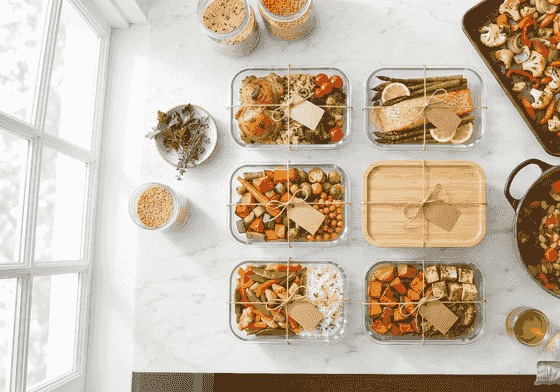
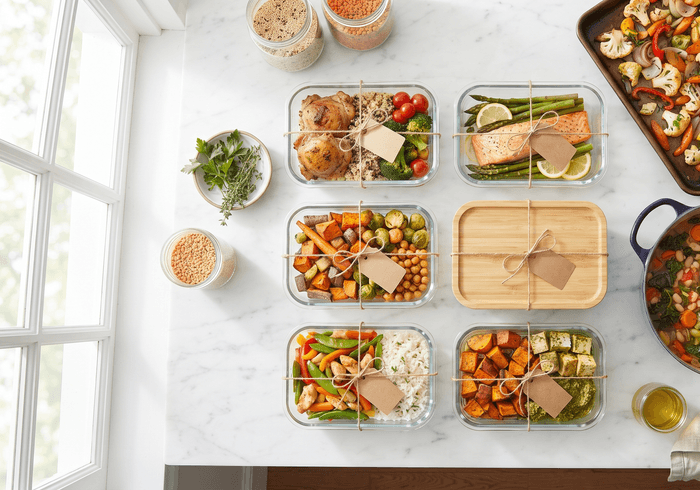
Fix collapse container-shrink bug; sitemap/stat/label/photo fixes from spot-check
Root cause of "collapse hides content but leaves a full-height blank
box" (confirmed on Today's Meal Plan, 6 real entries, not a data
gap): the grid-template-rows: 0fr/1fr collapse wrapper also carried
an unconditional flex-1, which stretches the wrapper to fill its
flex-col parent's available space regardless of the grid row's own
0fr/1fr track size -- flex-grow and grid-row-collapse don't coordinate
automatically. Two compounding causes on top of that: a fixed
min-h-[140px] on the card shell fought the same way, and the parent
grids (dashboard's top grid-cols-12 row, DashboardWidgets' 2-up
grids) default to align-items:stretch, so a collapsed card was pulled
back up to match an still-expanded sibling in the same row/grid.
Fixed all three: flex-1 and min-h are now conditional on !collapsed
in CollapsibleCard.tsx, TodaysMealPlanCard, and PrepAheadWidgetCard;
items-start added to every grid that pairs cards side by side. Real
tradeoff, called out in a comment: Today and Candle Lighting no
longer auto-match each other's height via grid stretch when both are
expanded (they used to, intentionally, per Candle Lighting's own
prior comment) -- each now sizes to its own content instead.

Sitemap: moved "Reset for Next" out of Tools -- Kitchen Ops into the
Staff section (a post-use checklist is a staff tool, not general
kitchen prep). Verified separately that the sitemap resize itself
(commits d985da6/3804689) genuinely is deployed -- confirmed via a
[…]

diff --git a/app/properties/[id]/dashboard/page.tsx b/app/properties/[id]/dashboard/page.tsx
@@ -618,7 +618,19 @@ export default async function Dashboard({ params }: { params: Promise<{ id: stri
             lighter, shadowless border only, so lists don't read as cards
             nested inside cards. */}
 
-        <div className="grid grid-cols-12 gap-[14px] mb-[14px]">
+        {/* items-start: without it, CSS Grid's default align-items:stretch
+            keeps a collapsed card (Today, Candle Lighting, Pantry, Meal
+            Plan all live in this one grid, sharing rows in pairs) stretched
+            to match its still-expanded row-sibling's height -- the same
+            "container doesn't shrink" bug CollapsibleCard's own flex-1 fix
+            addresses internally, just at the grid-row level instead. Trade-
+            off: Today and Candle Lighting no longer auto-match each other's
+            height when both are expanded (they used to, via this same
+            stretch behavior, per Candle Lighting's own code comment) --
+            each now sizes to its own content instead. Both cards were just
+            compacted to similar heights already, so this should read as a
+            minor difference at most, not a visible mismatch. */}
+        <div className="grid grid-cols-12 gap-[14px] mb-[14px] items-start">
           {/* TODAY -- Type A (denim header bar + free content below), per
               CONCEPT-B-DESIGN-RULES.md section 2. Content/functionality
               unchanged (Hebrew date, English date, parsha, Tehillim, omer,
@@ -926,13 +938,22 @@ export default async function Dashboard({ params }: { params: Promise<{ id: stri
           </CollapsibleCard>
         </div>
 
-        {/* Quick-glance overview -- 2 real counts (Meals Planned removed:
-            the same distinctMealCount already shows on the THIS WEEK card). */}
-        <div className="grid grid-cols-2 gap-3 mb-4">
+        {/* Quick-glance overview -- 3 real counts, restored (was briefly 2
+            with Meals Planned removed on the theory distinctMealCount was
+            already duplicated by the THIS WEEK card -- put back per
+            explicit request, in Total Inventory / Meals Planned / Active
+            Recipes order, not the original Total Inventory / Active
+            Recipes / Meals Planned order). */}
+        <div className="grid grid-cols-3 gap-3 mb-4">
           <div className="rounded-xl3 border border-cardBorder shadow-card bg-card p-4 text-center">
             <Package size={18} strokeWidth={1.5} className="text-brass mx-auto mb-1" aria-hidden="true" />
             <div className="text-2xl font-display text-denim">{inventoryCount.toLocaleString('en-US')}</div>
             <div className="text-xs text-dusk">{t('stats.totalInventory')}</div>
+          </div>
+          <div className="rounded-xl3 border border-cardBorder shadow-card bg-card p-4 text-center">
+            <Calendar size={18} strokeWidth={1.5} className="text-brass mx-auto mb-1" aria-hidden="true" />
+            <div className="text-2xl font-display text-denim">{distinctMealCount}</div>
+            <div className="text-xs text-dusk">{t('stats.mealsPlanned')}</div>
           </div>
           <div className="rounded-xl3 border border-cardBorder shadow-card bg-card p-4 text-center">
             <BookOpen size={18} strokeWidth={1.5} className="text-brass mx-auto mb-1" aria-hidden="true" />

diff --git a/components/DashboardWidgets.tsx b/components/DashboardWidgets.tsx
@@ -167,7 +167,7 @@ export default function DashboardWidgets({
         {visibleKeys.length === 0 ? (
           !editing && <p className="text-sm text-dusk">{t('allHidden')}</p>
         ) : (
-          <div className="grid grid-cols-1 sm:grid-cols-2 gap-3">
+          <div className="grid grid-cols-1 sm:grid-cols-2 gap-3 items-start">
             {visibleKeys.map((key) => {
               if (key === 'todays_meal_plan') return <TodaysMealPlanCard key={key} title={WIDGET_LABELS.todays_meal_plan} propertyId={propertyId} meals={todaysMeals} isShabbosOrYomTov={isShabbosOrYomTovDinner} />;
               return (
@@ -187,7 +187,7 @@ export default function DashboardWidgets({
         {/* Fixed row -- always shown, not part of the show/hide/reorder
             system above (Low Stock Alerts and the shopping-list count are
             operational, not optional). */}
-        <div className="grid grid-cols-1 sm:grid-cols-2 gap-3 mt-3">
+        <div className="grid grid-cols-1 sm:grid-cols-2 gap-3 mt-3 items-start">
           <LowStockAlertsCard title={t('labelLowStockAlerts')} propertyId={propertyId} items={lowStockItems} />
           <ShoppingListSummaryCard propertyId={propertyId} count={shoppingListCount} />
         </div>
@@ -269,19 +269,19 @@ function TodaysMealPlanCard({
   }
 
   return (
-    <div className="relative rounded-xl2 border border-brass/30 bg-mist shadow-card hover:shadow-cardHover transition-shadow overflow-hidden flex flex-col min-h-[140px]">
+    <div className={`relative rounded-xl2 border border-brass/30 bg-mist shadow-card hover:shadow-cardHover transition-shadow overflow-hidden flex flex-col ${collapsed ? '' : 'min-h-[100px]'}`}>
       <Pin size="sm" collapsed={collapsed} onToggle={toggle} />
-      <h3 className="text-[9px] tracking-[0.2em] uppercase font-semibold text-brass pt-[14px] px-[18px] pb-2.5">{title}</h3>
+      <h3 className="text-[9px] tracking-[0.2em] uppercase font-semibold text-brass pt-[10px] px-[16px] pb-2">{title}</h3>
       <div
-        className="flex-1 grid transition-[grid-template-rows] duration-200 ease-out"
+        className={`grid transition-[grid-template-rows] duration-200 ease-out ${collapsed ? '' : 'flex-1'}`}
         style={{ gridTemplateRows: collapsed ? '0fr' : '1fr' }}
       >
-        <div className="overflow-hidden flex flex-1 min-h-0">
-          <div className="flex-1 px-[18px] pb-[14px]">
+        <div className="overflow-hidden flex min-h-0">
+          <div className="flex-1 px-[16px] pb-[10px]">
             {meals.length === 0 ? (
               <p className="text-sm text-dusk">{t('nothingPlannedToday')}</p>
             ) : (
-              <div className="space-y-2">
+              <div className="space-y-1.5">
                 {Object.entries(bySlot).map(([slot, rawEntries]) => {
                   const entries = orderedEntries(slot, rawEntries);
                   if (entries.length === 0) return null;
@@ -310,7 +310,7 @@ function TodaysMealPlanCard({
                 })}
               </div>
             )}
-            <Link href={`/properties/${propertyId}/meal-plan`} className="inline-block mt-2.5 text-[11px] font-bold text-brass underline underline-offset-2">
+            <Link href={`/properties/${propertyId}/meal-plan`} className="inline-block mt-2 text-[11px] font-bold text-brass underline underline-offset-2">
               {t('viewFullPlan')}
             </Link>
           </div>
@@ -415,9 +415,9 @@ function PrepAheadWidgetCard({
   }
 
   return (
-    <div className="relative rounded-xl2 border border-brass/30 bg-mist shadow-card hover:shadow-cardHover transition-shadow overflow-hidden flex flex-col min-h-[140px]">
+    <div className={`relative rounded-xl2 border border-brass/30 bg-mist shadow-card hover:shadow-cardHover transition-shadow overflow-hidden flex flex-col ${collapsed ? '' : 'min-h-[100px]'}`}>
       <Pin size="sm" collapsed={collapsed} onToggle={toggle} />
-      <div className="flex items-center justify-between gap-2 pt-[14px] px-[18px] pb-2.5">
+      <div className="flex items-center justify-between gap-2 pt-[10px] px-[16px] pb-2">
         <span className="flex items-center gap-2">
           <span className="text-[9px] tracking-[0.2em] uppercase font-semibold text-brass">{title}</span>
           {isEnabled && <span className="text-xs text-dusk font-bold">({reminders.length})</span>}
@@ -433,11 +433,11 @@ function PrepAheadWidgetCard({
         )}
       </div>
       <div
-        className="flex-1 grid transition-[grid-template-rows] duration-200 ease-out"
+        className={`grid transition-[grid-template-rows] duration-200 ease-out ${collapsed ? '' : 'flex-1'}`}
         style={{ gridTemplateRows: collapsed ? '0fr' : '1fr' }}
       >
-        <div className="overflow-hidden flex flex-1 min-h-0">
-          <div className="flex-1 px-[18px] pb-[14px]">
+        <div className="overflow-hidden flex min-h-0">
+          <div className="flex-1 px-[16px] pb-[10px]">
             {!isEnabled ? (
               <p className="text-sm text-dusk">{t('off')}</p>
             ) : reminders.length === 0 ? (

diff --git a/components/CollapsibleCard.tsx b/components/CollapsibleCard.tsx
@@ -33,15 +33,24 @@ export default function CollapsibleCard({
 }) {
   const { collapsed, toggle } = useCardCollapse(cardId)
 
+  // flex-1 on the animating wrapper is what makes it fill the remaining
+  // height of this card's flex-col shell when expanded (matching what a
+  // plain content div used to do before collapse existed) -- but applied
+  // unconditionally, it fights grid-template-rows: 0fr directly: flex-grow
+  // stretches the wrapper to fill available space in ITS flex parent
+  // regardless of the grid row's own 0fr/1fr track size, so a collapsed
+  // card kept its full height as an empty box even though the content
+  // inside was correctly invisible. Only applying flex-1 when expanded is
+  // what actually lets the collapsed state shrink.
   const inner = (
     <>
       <Pin size={pinSize} collapsed={collapsed} onToggle={toggle} />
       {header}
       <div
-        className="flex-1 grid transition-[grid-template-rows] duration-200 ease-out"
+        className={`grid transition-[grid-template-rows] duration-200 ease-out ${collapsed ? '' : 'flex-1'}`}
         style={{ gridTemplateRows: collapsed ? '0fr' : '1fr' }}
       >
-        <div className="overflow-hidden flex flex-col flex-1 min-h-0">{children}</div>
+        <div className="overflow-hidden flex flex-col min-h-0">{children}</div>
       </div>
     </>
   )

diff --git a/app/properties/[id]/sitemap/page.tsx b/app/properties/[id]/sitemap/page.tsx
@@ -75,6 +75,7 @@ function buildSections(propertyId: string): Section[] {
       entries: [
         { href: p('/staff'), label: 'Staff', subtitle: 'Team & roles', icon: Users },
         { href: p('/shift-handover'), label: 'Shift Handover', subtitle: 'Pass the baton', icon: RotateCcw },
+        { href: p('/tools/reset-checklist'), label: 'Reset for Next', subtitle: 'Post-use checklist', icon: RotateCcw },
       ],
     },
     {
@@ -90,7 +91,6 @@ function buildSections(propertyId: string): Section[] {
       entries: [
         { href: p('/tools/kitchen-timer'), label: 'Kitchen Timer', subtitle: 'Multiple timers', icon: Timer },
         { href: p('/tools/guest-scaler'), label: 'Scale Servings', subtitle: 'Adjust a recipe', icon: Scale },
-        { href: p('/tools/reset-checklist'), label: 'Reset for Next', subtitle: 'Post-use checklist', icon: RotateCcw },
         { href: p('/tools/prep-timeline'), label: 'Prep Timeline', subtitle: 'Freezer-ahead plan', icon: ListChecks },
       ],
     },